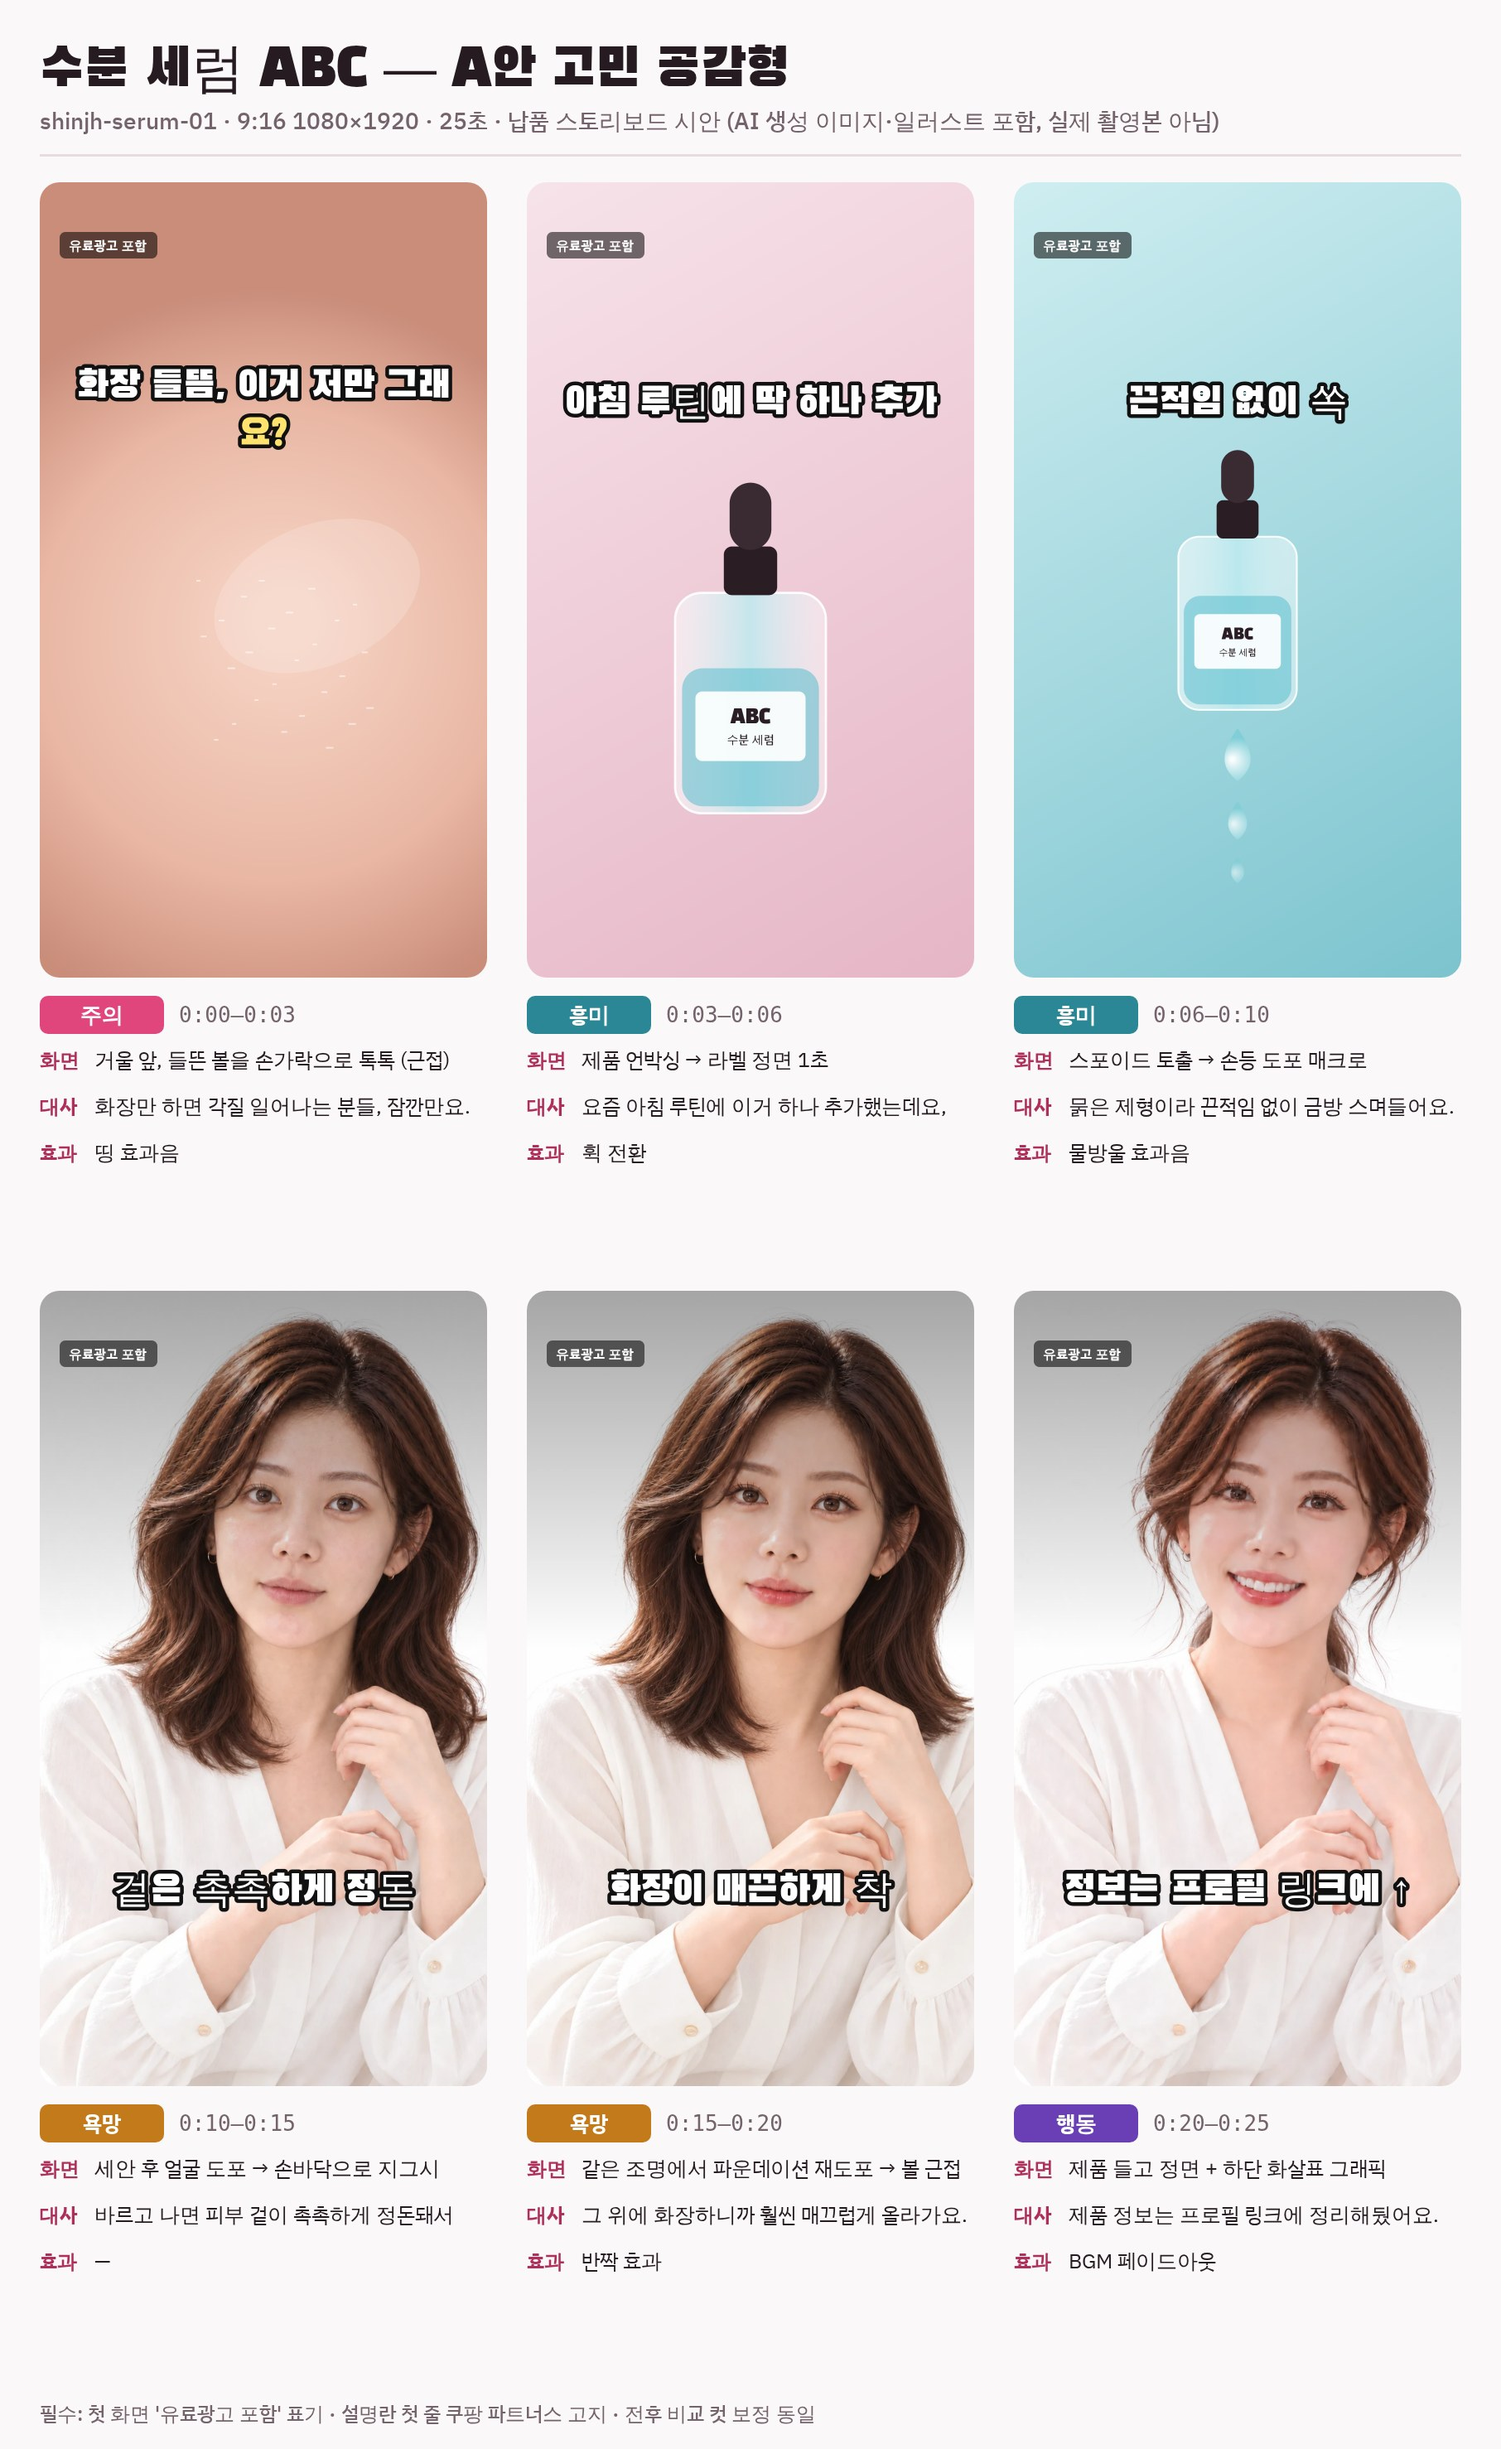
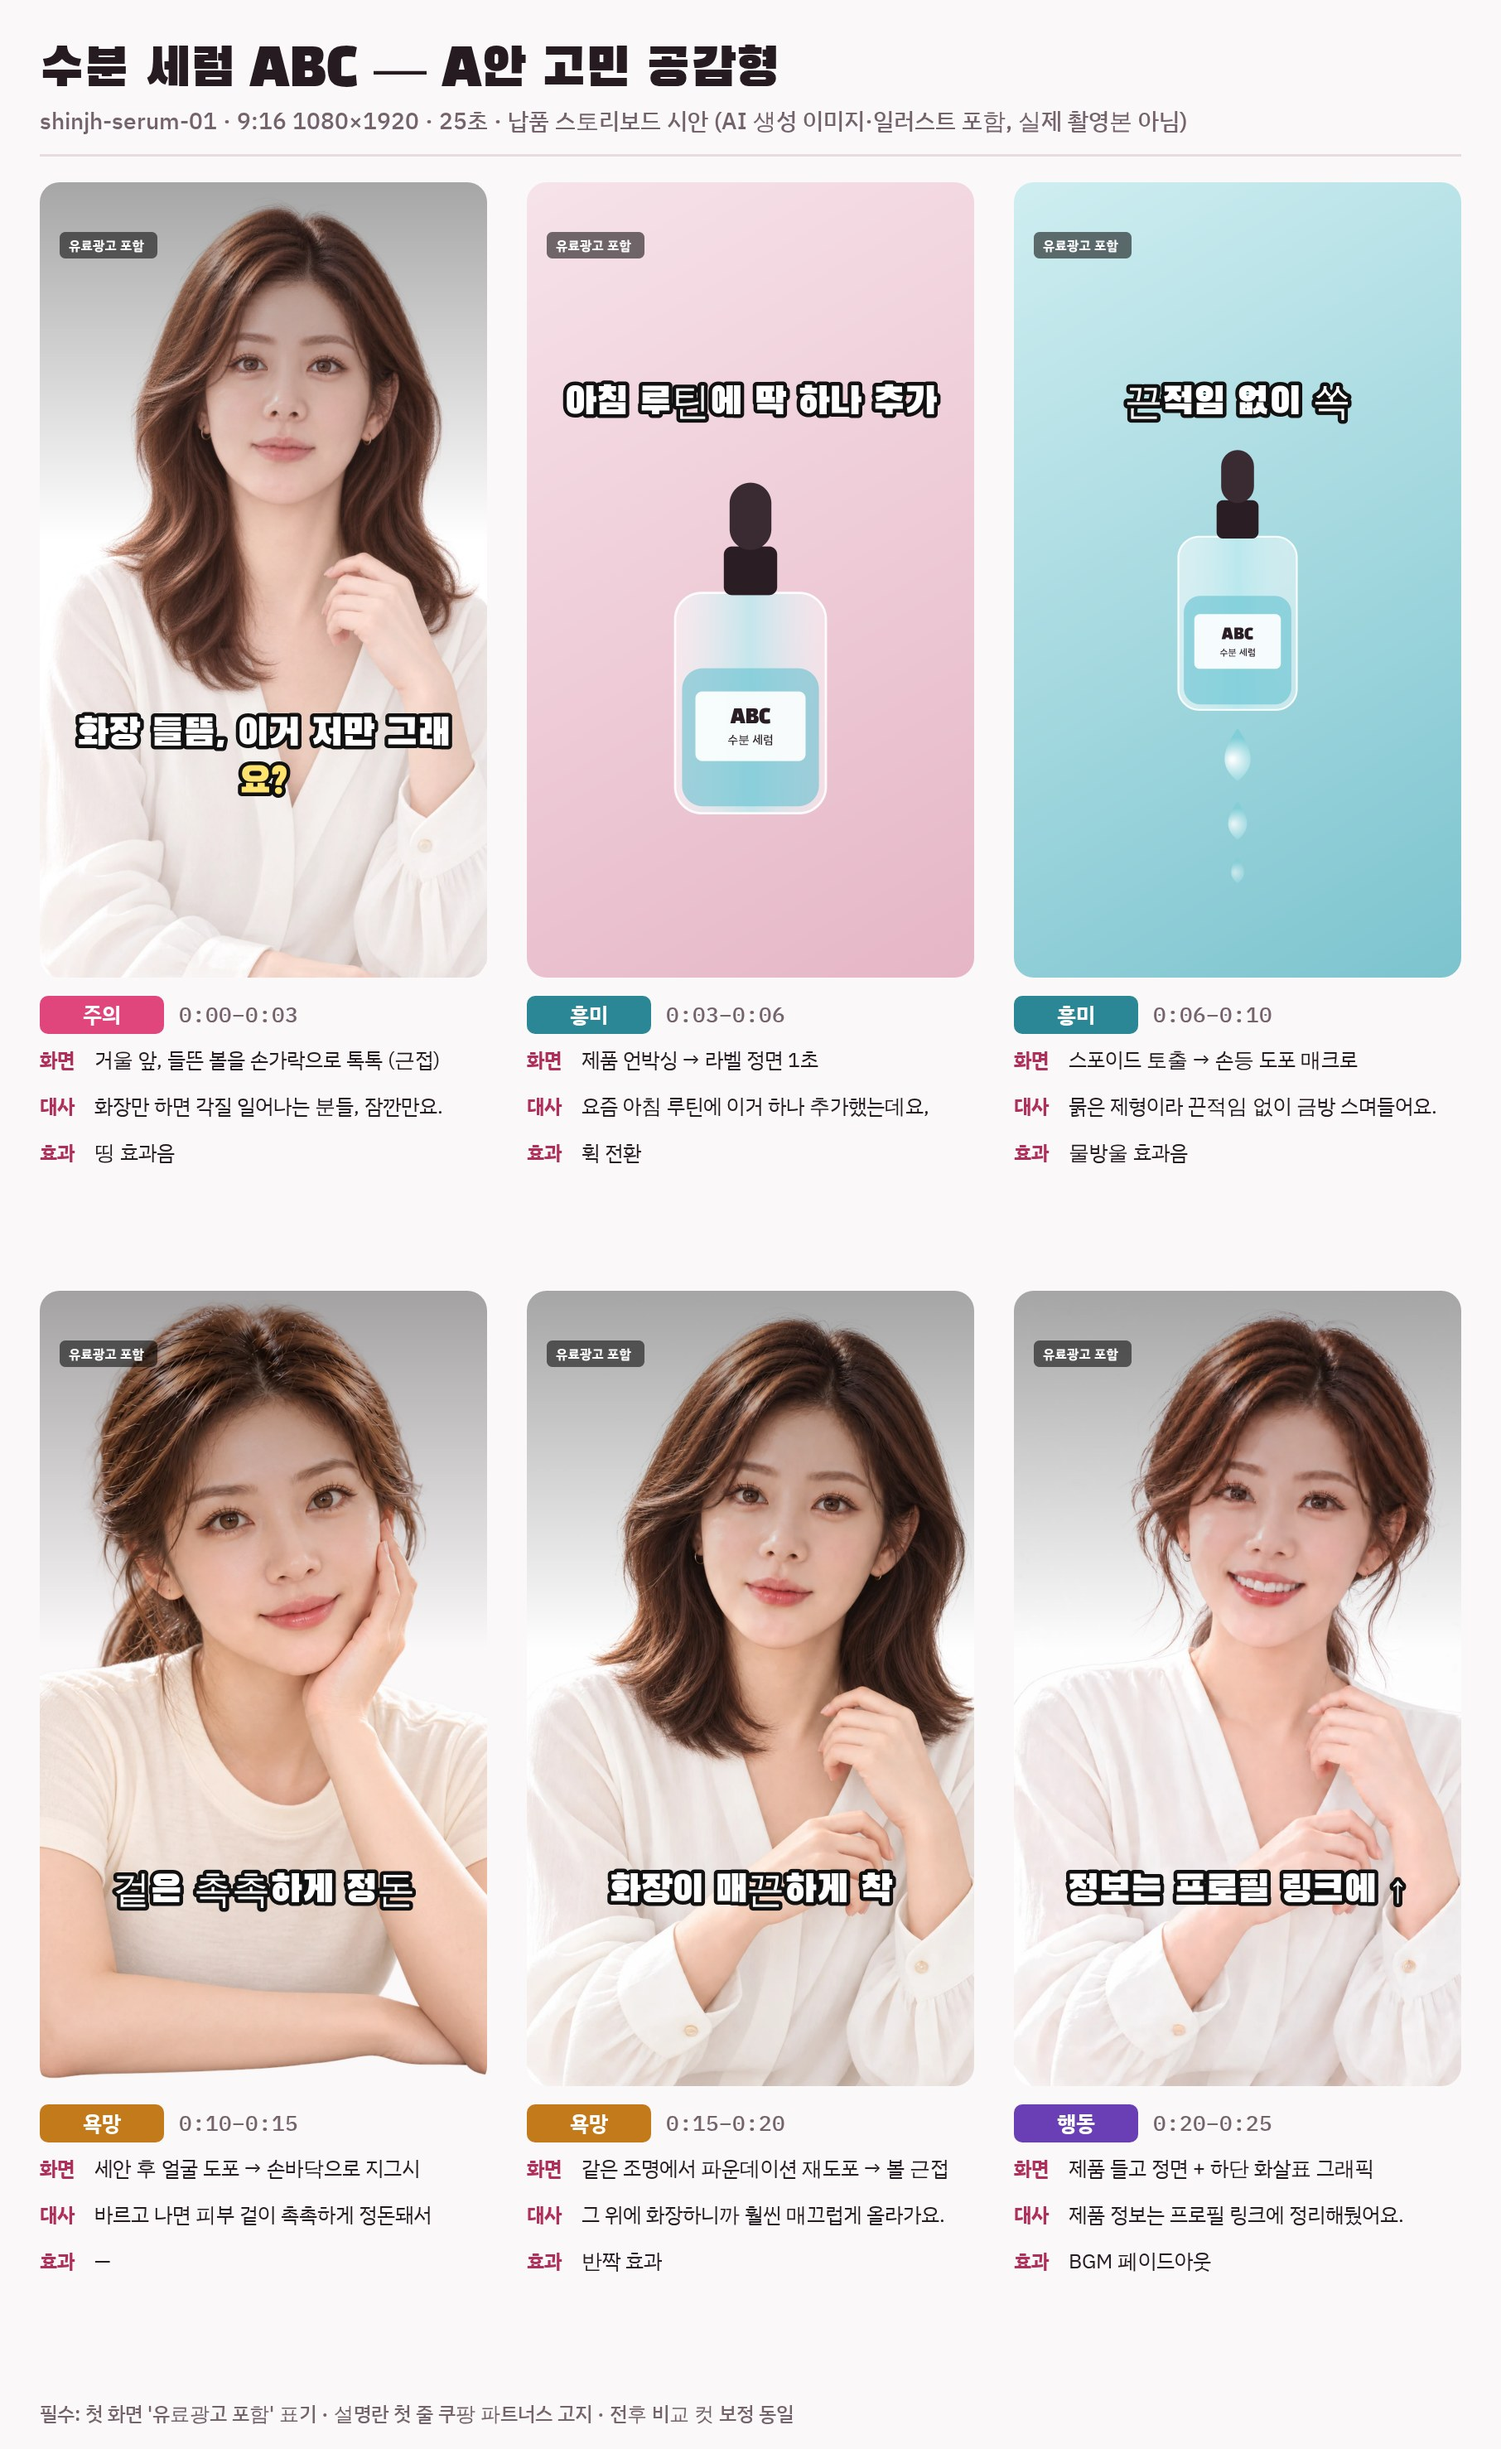
Use the model's photos on all face scenes, add two bare-face photos
Claude-Session: https://claude.ai/code/session_01G7A9XvmaDKVefmK26e1iGa

diff --git a/docs/beauty-shorts/photos/README.md b/docs/beauty-shorts/photos/README.md
@@ -33,7 +33,9 @@ job ID 목록은 `jobs.json` 참고.
 | `reference/ref_makeup_1.webp` | 메이크업 1 |
 | `reference/ref_makeup_2.webp` | 메이크업 2 |
 | `reference/ref_makeup_smile.webp` | 메이크업, 웃는 얼굴 (풀어 내린 머리) |
-| `reference/ref_makeup_smile_tied.webp` | 메이크업, 웃는 얼굴 (묶은 머리) — A6·C4에 사용 |
+| `reference/ref_makeup_smile_tied.webp` | 메이크업, 웃는 얼굴 (묶은 머리) |
+| `reference/ref_bare_tshirt_tied.webp` | 생얼, 묶은 머리, 티셔츠, 볼에 손 |
+| `reference/ref_bare_loose.webp` | 생얼, 풀어 내린 머리 |
 
 적용: A안 4번(세안 후 세럼, 생얼)·5번(화장 밀착, 메이크업)·6번(마무리, 웃는 메이크업), C안 1번(DAY 1, 생얼)·4번(마무리, 웃는 메이크업). 합성 결과는 `examples/photo_*.jpg`, `examples/storyboard_A_photo.jpg`, `storyboard_C_photo.jpg`.
 
@@ -58,3 +60,21 @@ job ID 목록은 `jobs.json` 참고.
 ### 생얼 추가 (묶은 머리, 웃는 메이크업 사진과 같은 포즈)
 
 - [이미지](https://d8j0ntlcm91z4.cloudfront.net/user_3CZmrJBghvprxYgai44zpzRR7Pg/hf_20261005_203039_9e3b51a4-592e-4f86-8554-36375f67b388.png) — job `9e3b51a4`, 웃는 메이크업 사진(job `84ce4141`)을 참고 이미지로 넣어 얼굴만 생얼로 바꿈. 모델 v2 학습에 사용.
+
+## 장면별 실사 사진 배치 (현재)
+
+얼굴이 나오는 장면은 모두 이 모델 사진. 제품·손 클로즈업 장면(A2·A3·B1~B3·C2)은 일러스트 유지.
+
+| 장면 | 사진 | 메이크업 |
+|---|---|---|
+| A1 화장 들뜸 고민 | `ref_bare_loose` | 전 (생얼) |
+| A4 세안 후 세럼 | `ref_bare_tshirt_tied` | 전 (생얼) |
+| A5 화장 밀착 | `ref_makeup_1` | 후 |
+| A6 마무리 | `ref_makeup_smile_tied` | 후 |
+| B4 바른 직후 피부 | `ref_bare` | 전 (생얼) |
+| B5 마무리 | `ref_makeup_smile` | 후 |
+| C1 DAY 1 | `ref_bare_loose` | 전 (생얼) |
+| C3 DAY 7 | `ref_bare` | 전 (생얼) — DAY 1과 같은 조건(생얼·흰 배경·블라우스) |
+| C4 마무리 | `ref_makeup_smile_tied` | 후 |
+
+합성 결과: `examples/photo_<장면>.jpg`, `examples/storyboard_{A,B,C}_photo.jpg`.
